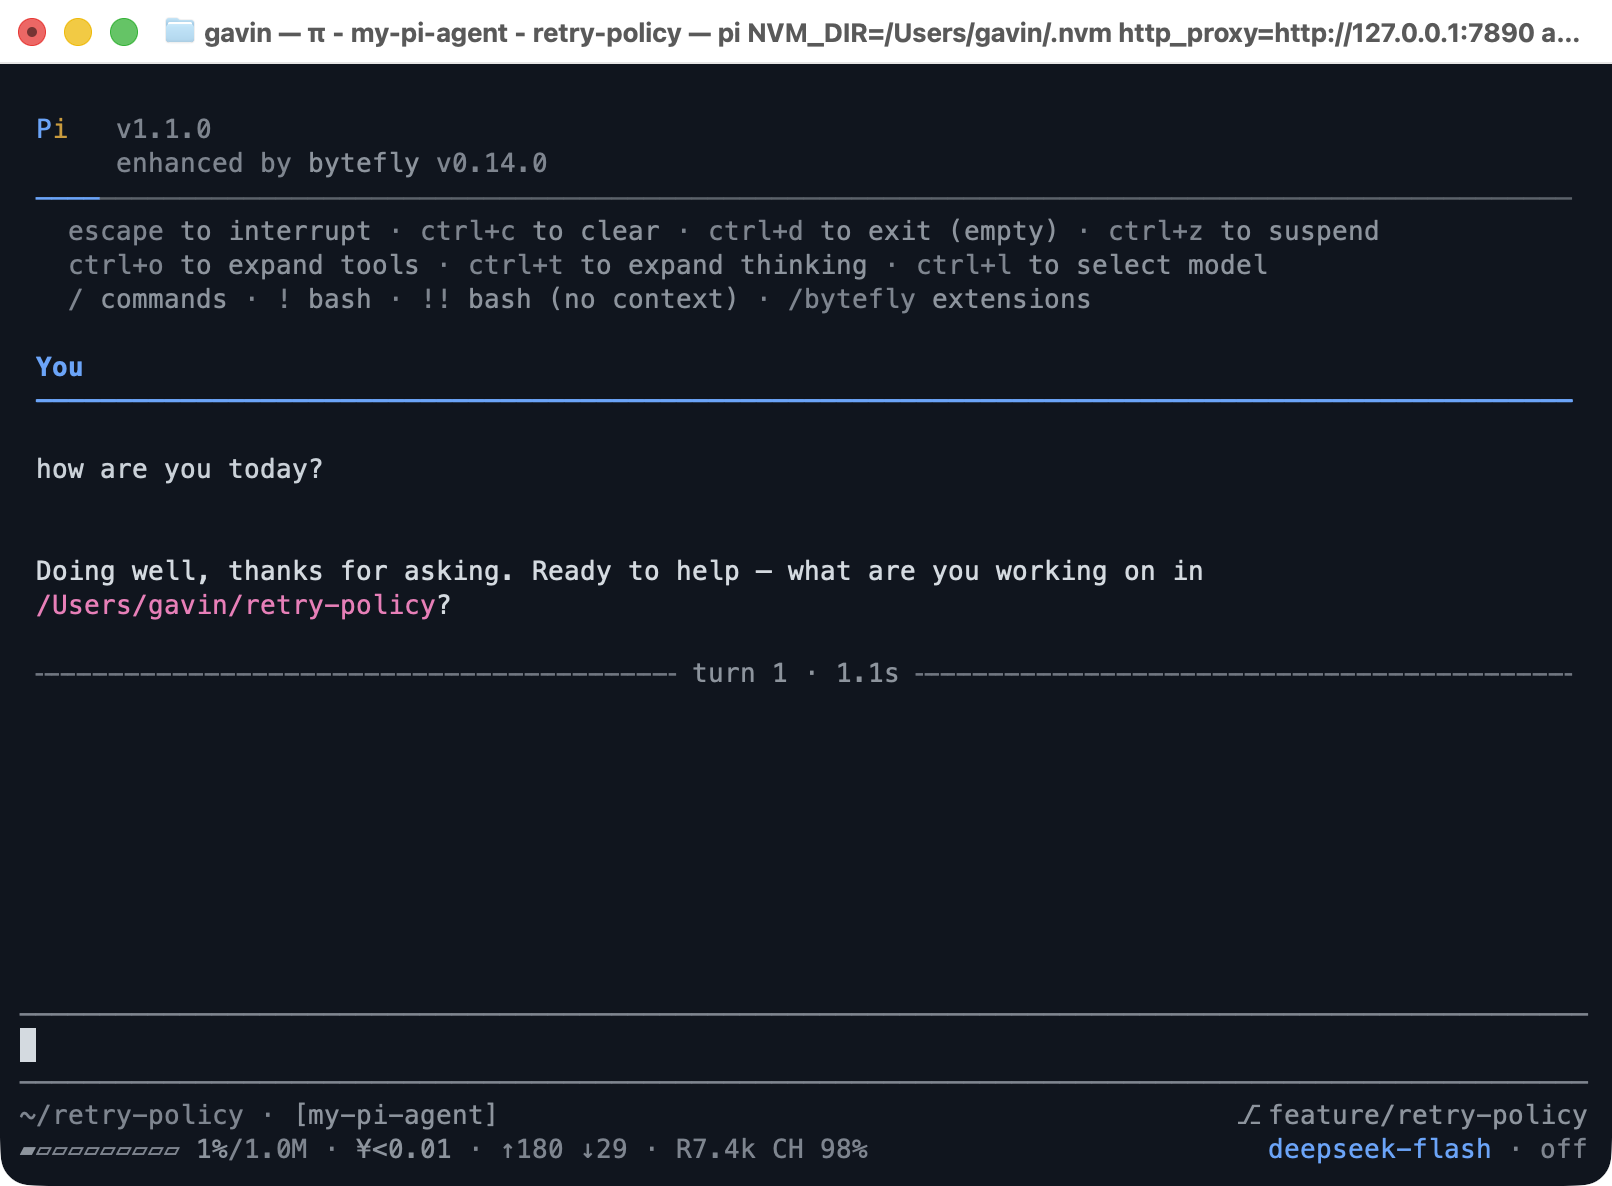
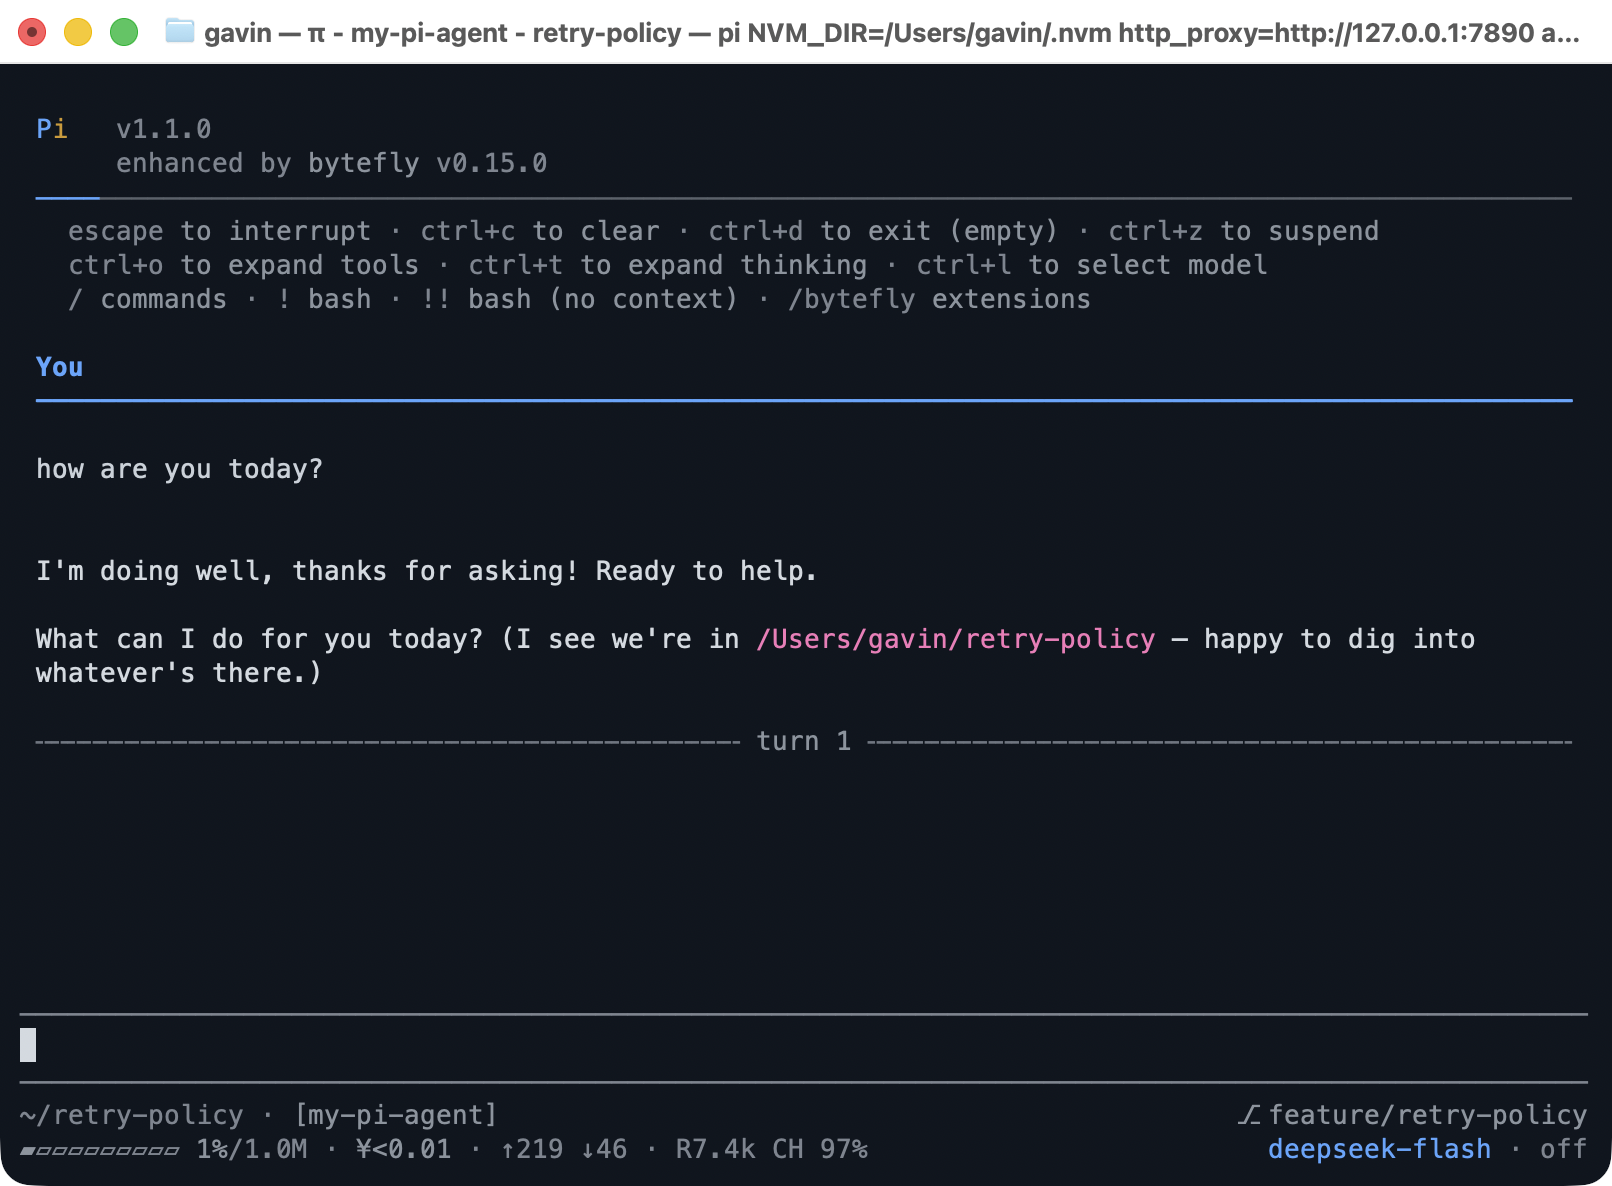
chore(release): 0.15.0

Changed region(s): [[0.0, 0.468, 0.7444, 0.5927], [0.7444, 0.5304, 0.9305, 0.5616]]

diff --git a/CHANGELOG.md b/CHANGELOG.md
@@ -6,6 +6,8 @@ to [Semantic Versioning](https://semver.org/spec/v2.0.0.html).
 
 ## [Unreleased]
 
+## [0.15.0] - 2026-10-20
+
 ### Added
 
 - `bytefly`: the Settings screen now has a **Theme** row that lists `system`
@@ -2255,7 +2257,8 @@ one installable Pi package.
   the worktree it ran in, and the rewind end-to-end test seeds its snapshot with
   the native repo root.
 
-[Unreleased]: https://github.com/gavin-hu/my-pi-agent/compare/v0.14.0...HEAD
+[Unreleased]: https://github.com/gavin-hu/my-pi-agent/compare/v0.15.0...HEAD
+[0.15.0]: https://github.com/gavin-hu/my-pi-agent/releases/tag/v0.15.0
 [0.14.0]: https://github.com/gavin-hu/my-pi-agent/releases/tag/v0.14.0
 [0.13.1]: https://github.com/gavin-hu/my-pi-agent/releases/tag/v0.13.1
 [0.13.0]: https://github.com/gavin-hu/my-pi-agent/releases/tag/v0.13.0

diff --git a/docs/getting-started.md b/docs/getting-started.md
@@ -95,7 +95,7 @@ pi install npm:@gavin-hu/my-pi-agent
 pi install git:github.com/gavin-hu/my-pi-agent
 
 # Pin a release (npm versions and git tags name the same version)
-pi install git:github.com/gavin-hu/my-pi-agent@v0.14.0
+pi install git:github.com/gavin-hu/my-pi-agent@v0.15.0
 
 # Project-local install (.pi/settings.json in the current project)
 pi install ./ -l
